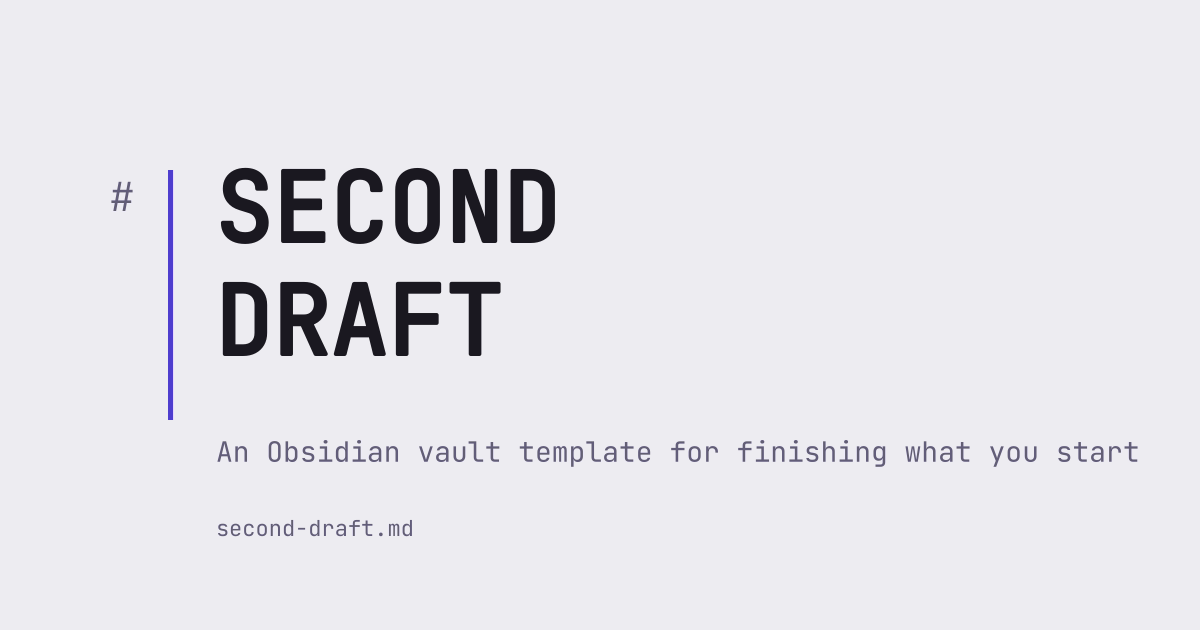
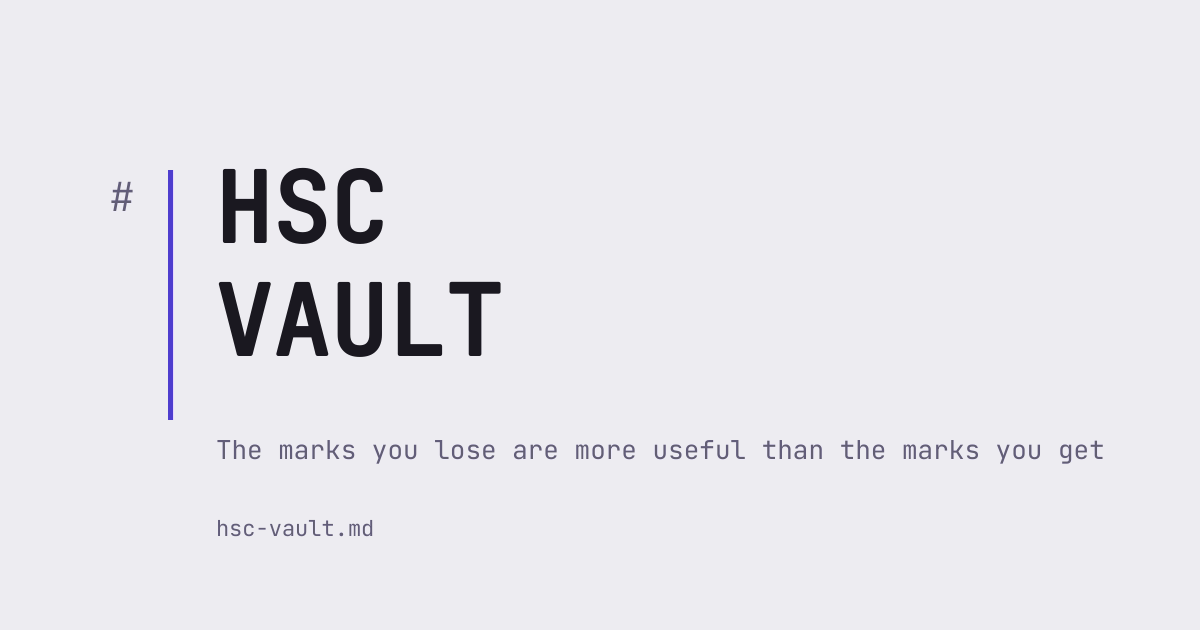
Rewrite the site to describe the actual product (#5)
The shipped vault is the HSC Vault, an Obsidian study system. The site
described a placeholder writing vault and every factual claim was invented.

Corrected against the vault itself: Obsidian 1.9 (Bases), core plugins only
(the vault's own setup note lists Dataview as "not recommended"), Templater
optional, real includes[], licence and refund copy in the author's wording,
price $10. OG image and poster regenerated.

diff --git a/content/site.ts b/content/site.ts
@@ -3,19 +3,15 @@
  * Components read from it and contain no hardcoded strings.
  *
  * ─────────────────────────────────────────────────────────────────────────────
- * TODO — PLACEHOLDER VALUES. Replace before this site goes near a real visitor.
- * Each one is marked `TODO` inline as well.
+ * Content here is drawn from the shipped vault itself — its READ ME FIRST,
+ * START HERE and "Setting up Obsidian" notes, and its .obsidian config. Nothing
+ * below is invented. If the vault changes, change this file to match.
  *
- *   site.url                  real domain (drives canonical + OG tags)
- *   site.contactEmail         real inbox
- *   product.tagline           the real one-line promise
- *   product.priceUSD          the real price — must match Gumroad exactly
- *   product.includes          the real contents of the vault
- *   product.requiredPlugins   the real plugin list
- *   product.obsidianMinVersion  the real minimum version you have tested
- *   product.demoVideo/Poster  real screen capture (placeholders ship in /public)
- *
- * Adding a second product means adding an entry to `products` and nothing else.
+ * TODO — still placeholder:
+ *   site.url            swap for the custom domain when there is one
+ *   site.contactEmail   the vault's README has the same gap ([YOUR EMAIL])
+ *   site.refundPolicy   README says "[NUMBER] days" — the two must agree
+ *   product.demoVideo   placeholder capture in /public
  * ─────────────────────────────────────────────────────────────────────────────
  */
 
@@ -35,7 +31,10 @@ export interface Product {
   /** Human-readable running time, shown in the caption. */
   demoDuration: string;
   includes: string[];
+  /** Core plugins the vault depends on. These ship enabled. */
   requiredPlugins: string[];
+  /** Community plugins that help but are not needed. Nothing breaks without. */
+  optionalPlugins: string[];
   obsidianMinVersion: string;
   /** Licence terms, in plain language. One string per line. */
   licence: string[];
@@ -63,29 +62,29 @@ export interface Site {
 }
 
 export const site: Site = {
-  // TODO: swap for the custom domain when there is one. Until then this must
-  // match the live deployment — a canonical pointing at a domain that does not
-  // resolve tells search engines the real page is somewhere else, and every
-  // OG/Twitter card resolves against it.
+  // TODO: swap for the custom domain when there is one. Must always match
+  // wherever the site actually serves from — canonical and OG resolve against it.
   url: 'https://ob-beta.vercel.app',
-  title: 'Second Draft — an Obsidian vault template for finishing what you start',
+  title: 'HSC Vault — an Obsidian study system built on the marks you lose',
   description:
-    'A pre-built Obsidian vault that turns scattered notes into finished writing. Opinionated structure, working Dataview queries, no setup afternoon.',
+    'A pre-built Obsidian vault for HSC students. A mistake journal, a past paper log and five live dashboards, all running on core plugins. 60 notes, no setup afternoon.',
   ogImage: '/og.png',
-  fileName: 'second-draft.md',
-  contactEmail: 'hello@second-draft.example.com', // TODO: real inbox
+  fileName: 'hsc-vault.md',
+  contactEmail: 'hello@example.com', // TODO: real inbox — README has the same gap
   buttondownUsername: 'roadkillham',
+  // TODO: the vault's README says "[NUMBER] days". Make the two agree.
   refundPolicy:
-    'Refunds within 14 days, no questions asked. Email me and I will send the money back.',
-  footerLicence: 'One licence per person. Use it in as many vaults as you like.',
+    'Refunds within 14 days. Email me — no form to fill in. If it is a technical problem, try me first: most take one message to fix.',
+  footerLicence:
+    'One licence, one person. Use it, change it, delete what you do not need, keep it forever.',
 };
 
 export const hero = {
   /** Split so the marked phrase can be highlighted without HTML in the copy. */
-  headlineLead: 'Second',
-  headlineRest: 'Draft',
-  subheadLead: 'A pre-built Obsidian vault for people whose notes are ',
-  subheadMark: 'full of unfinished writing.',
+  headlineLead: 'HSC',
+  headlineRest: 'Vault',
+  subheadLead: 'An Obsidian study system built on one idea: ',
+  subheadMark: 'the marks you lose are more useful than the marks you get.',
   subheadRest: '',
   primaryCta: 'Buy — $',
   secondaryCta: 'Watch the demo',
@@ -105,12 +104,18 @@ export const sections: Record<
 export const copy = {
   demoCaption: 'No sound. Nothing sped up.',
   requirementsNote:
-    'Without these plugins the dashboards render as empty code blocks. The notes themselves are plain markdown and will always open anywhere.',
+    'The dashboards use Bases, a core plugin that arrived in Obsidian 1.9. On anything older every note still opens — only the dashboard files will not. Nothing here needs a community plugin, and the vault ships with its core plugin settings already configured.',
   requirementsObsidianKey: 'obsidian',
-  requirementsPluginsKey: 'plugins',
+  requirementsPluginsKey: 'core_plugins',
+  requirementsPluginsComment: 'ship enabled',
+  requirementsCommunityKey: 'community_plugins',
+  requirementsCommunityValue: 'none required',
+  requirementsOptionalKey: 'optional',
+  requirementsOptionalComment: 'faster capture, nothing breaks without it',
   buyPriceSuffix: 'one-time',
-  buyCta: 'Get Second Draft on Gumroad',
-  buyNote: 'Checkout is handled by Gumroad. You get the vault as a .zip, immediately.',
+  buyCta: 'Get the HSC Vault on Gumroad',
+  buyNote:
+    'Checkout is handled by Gumroad. You get the vault as a .zip, immediately. Buy once, updates free.',
   emailLabel: 'Email address',
   emailPlaceholder: 'you@example.com',
   emailButton: 'Subscribe',
@@ -123,13 +128,11 @@ export const copy = {
 
 export const products: Product[] = [
   {
-    id: 'second-draft',
-    name: 'Second Draft',
+    id: 'hsc-vault',
+    name: 'HSC Vault',
     tagline:
-      'An opinionated Obsidian vault that moves an idea from a stray note to a finished piece.', // TODO: real tagline
-    // TODO: must match the price on the Gumroad page exactly. This number is
-    // only what the site advertises; Gumroad is what actually charges.
-    priceUSD: 29,
+      'A study system, not a note dump. Most students revise by re-reading what they already understand; this vault makes you revise what you got wrong.',
+    priceUSD: 10,
     gumroadUrl: 'https://roadkillhamster.gumroad.com/l/vhkzh',
     demoVideo: '/demo.mp4',
     demoPoster: '/demo-poster.webp',
@@ -137,19 +140,23 @@ export const products: Product[] = [
     demoHeight: 900,
     demoDuration: '1:40',
     includes: [
-      // TODO: replace with the real contents of the vault
-      'A structured vault: inbox, drafts, sources, published',
-      'Daily and weekly note templates wired to the drafting workflow',
-      'A Dataview dashboard showing every draft and where it is stuck',
-      'A source-capture template with citation fields',
-      'Twelve prompts for turning a note into an outline',
-      'A written walkthrough of the workflow the vault assumes',
+      '60 notes, 5 dashboards and a worked Chemistry example to copy from',
+      'A mistake journal — one note per mistake, not per topic. This is the core of it.',
+      'A past paper log, broken down question by question and linked to the mistakes each paper exposed',
+      'An assessment schedule with weightings, dates, marks and what you would do differently',
+      'Five live dashboards: mistakes, topics, past papers, assessments, review due',
+      '12 note templates, plus 5 Templater versions of the capture templates',
+      '8 exam technique notes: directive verbs, mark allocation, time allocation, the trap register',
+      'Subject hubs for English, Mathematics, Biology, Chemistry and Business Studies',
+      'A setup guide and a twenty-minute START HERE walkthrough',
     ],
-    requiredPlugins: ['dataview', 'templater'], // TODO: real plugin list
-    obsidianMinVersion: '1.5.0', // TODO: version you have actually tested
+    requiredPlugins: ['bases', 'templates', 'daily notes'],
+    optionalPlugins: ['templater'],
+    obsidianMinVersion: '1.9',
     licence: [
-      'Yours to keep and to edit however you want.',
-      'Please do not resell or redistribute the vault itself.',
+      'One licence, one person. Use it, change it, delete what you do not need, keep it forever.',
+      'Please do not resell it, share the files, or post it anywhere public. It is a small operation and that genuinely matters.',
+      'Everything is plain markdown on your own computer. Nothing is locked, nothing expires, nothing phones home.',
     ],
   },
 ];

diff --git a/components/Requirements.tsx b/components/Requirements.tsx
@@ -2,8 +2,8 @@ import { Section, SectionHeading } from '@/components/Section';
 import { copy, product, sections } from '@/content/site';
 
 /**
- * Rendered as a YAML frontmatter block, because that is how a vault template
- * actually declares what it depends on.
+ * Rendered as a YAML frontmatter block, because that is how a vault declares
+ * what it depends on.
  */
 export function Requirements() {
   return (
@@ -16,9 +16,27 @@ export function Requirements() {
           {'\n'}
           <span className="text-syntax">{copy.requirementsObsidianKey}:</span>{' '}
           &quot;&gt;= {product.obsidianMinVersion}&quot;{'\n'}
-          <span className="text-syntax">{copy.requirementsPluginsKey}:</span>
+          <span className="text-syntax">{copy.requirementsPluginsKey}:</span>{' '}
+          <span className="text-syntax">
+            # {copy.requirementsPluginsComment}
+          </span>
           {'\n'}
           {product.requiredPlugins.map((plugin) => (
+            <span key={plugin}>
+              {'  '}
+              <span className="text-syntax">-</span> {plugin}
+              {'\n'}
+            </span>
+          ))}
+          <span className="text-syntax">{copy.requirementsCommunityKey}:</span>{' '}
+          {copy.requirementsCommunityValue}
+          {'\n'}
+          <span className="text-syntax">{copy.requirementsOptionalKey}:</span>{' '}
+          <span className="text-syntax">
+            # {copy.requirementsOptionalComment}
+          </span>
+          {'\n'}
+          {product.optionalPlugins.map((plugin) => (
             <span key={plugin}>
               {'  '}
               <span className="text-syntax">-</span> {plugin}
